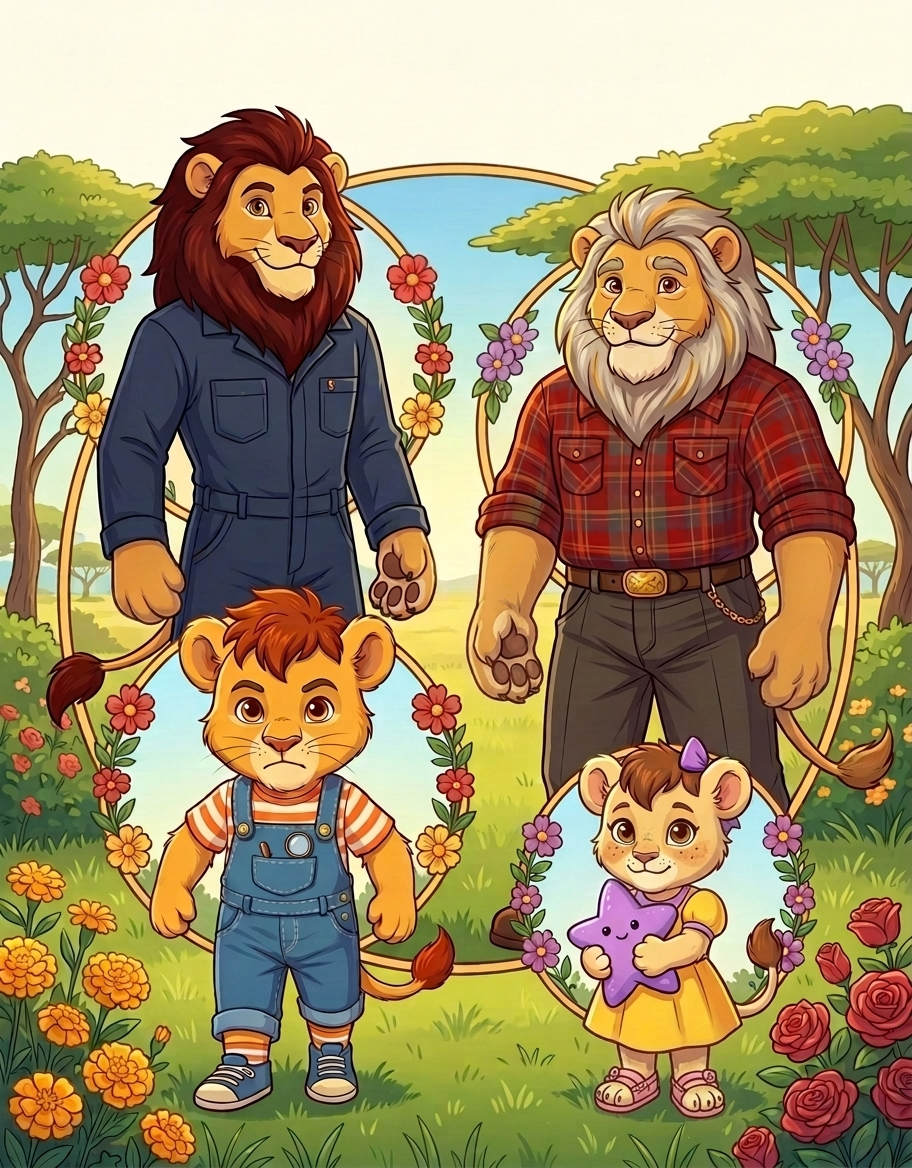
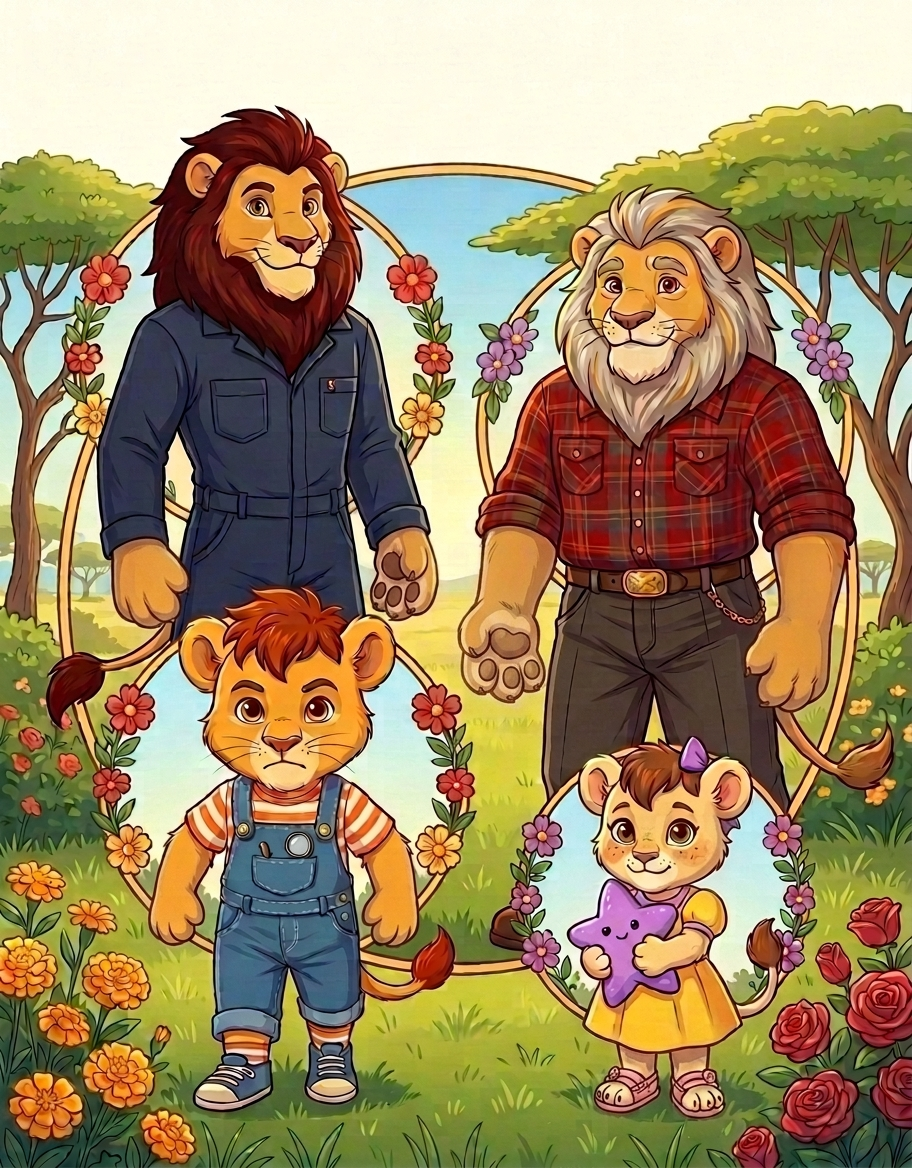
Refactor: Surgical image repair pass on Page 31, re-compile interior PDF & EPUB

diff --git a/02_Publishing_Files/run_targeted_repairs.py b/02_Publishing_Files/run_targeted_repairs.py
@@ -92,7 +92,7 @@ REPAIR_PLAN = {
     24: "Ensure Maya is an anthropomorphic lion cub with furry ears and her purple ear bow attached to her ear. Correct all hands to be soft 4-digit furry lion paws with paw pads.",
     26: "Ensure Leo appears ONCE on the right waving warmly with Maya under the starry night sky. Correct Leo's waving hand to be a soft 4-digit furry lion paw.",
     29: "Correct Pop Pop's hands holding the book and Maya's raised paw to be soft, furry 4-digit animal paws with clear paw pads.",
-    31: "In Maya's portrait badge, adjust her head size to be smaller than Leo's, ensure she wears her pink sandals, and draw soft 4-digit paws for Pop Pop and Dad."
+    31: "In Pop Pop's and Dad's portrait badges, simplify their paws to be soft, furry 4-digit mitten paws with round paw pads (STRICTLY 4 DIGITS, NO fifth finger). Keep all 4 circular badge frames neat and symmetrical."
 }
 
 def repair_single(p_num):
